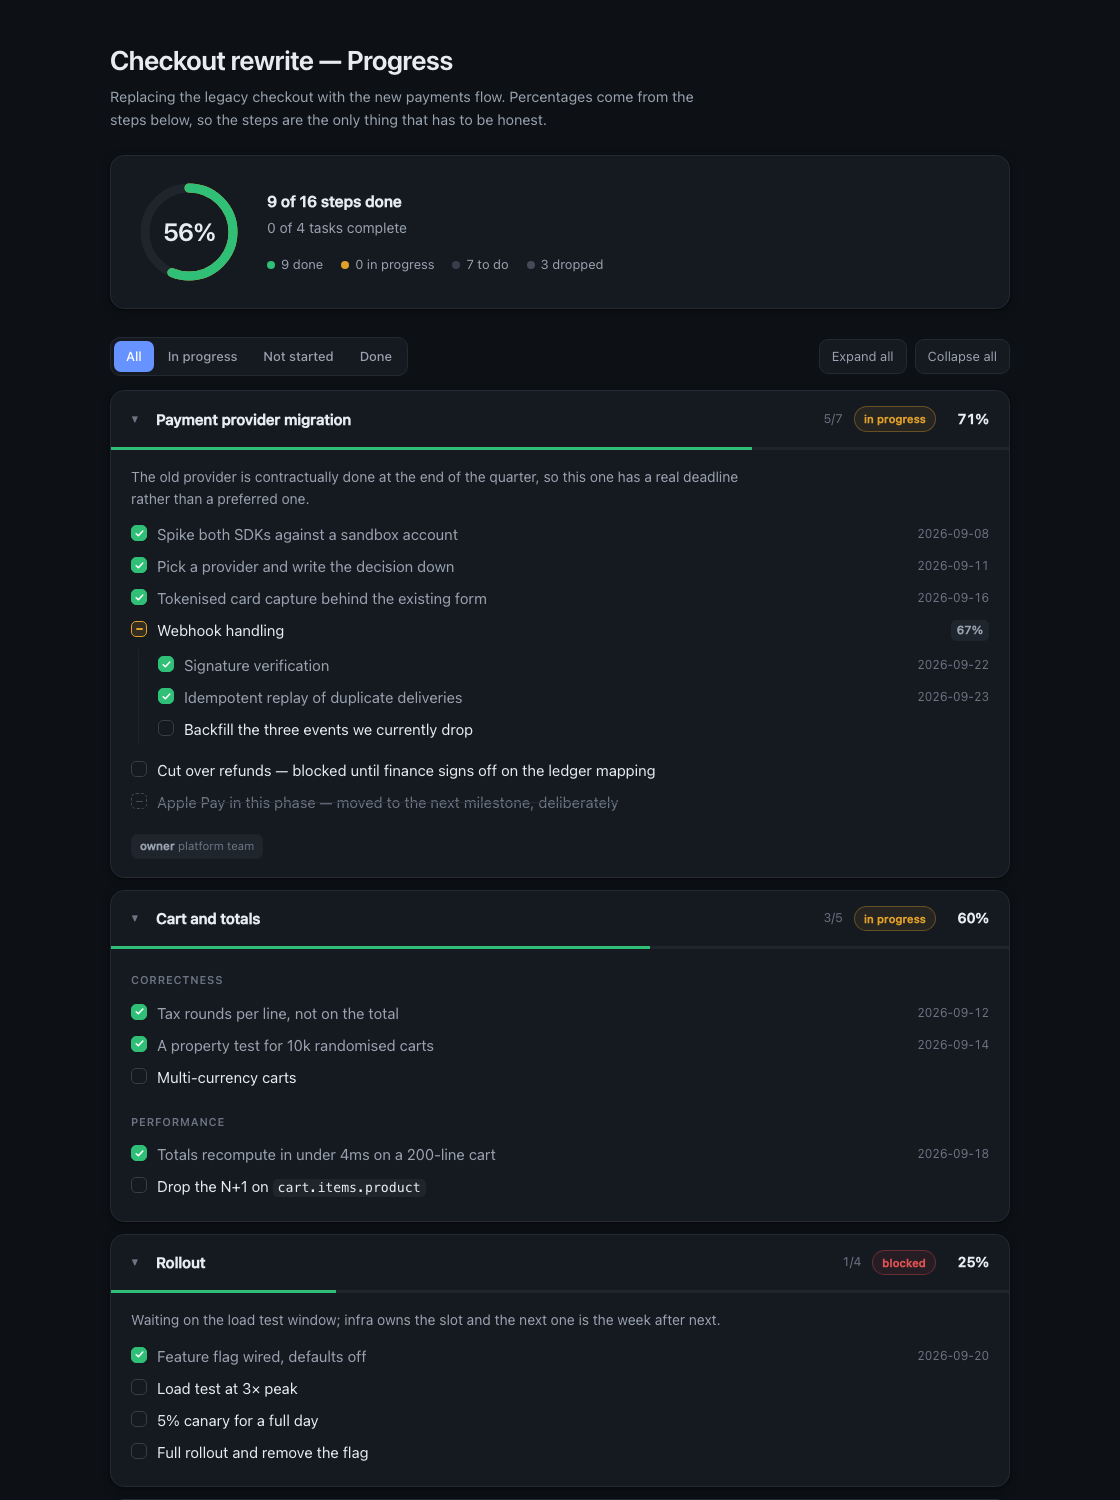
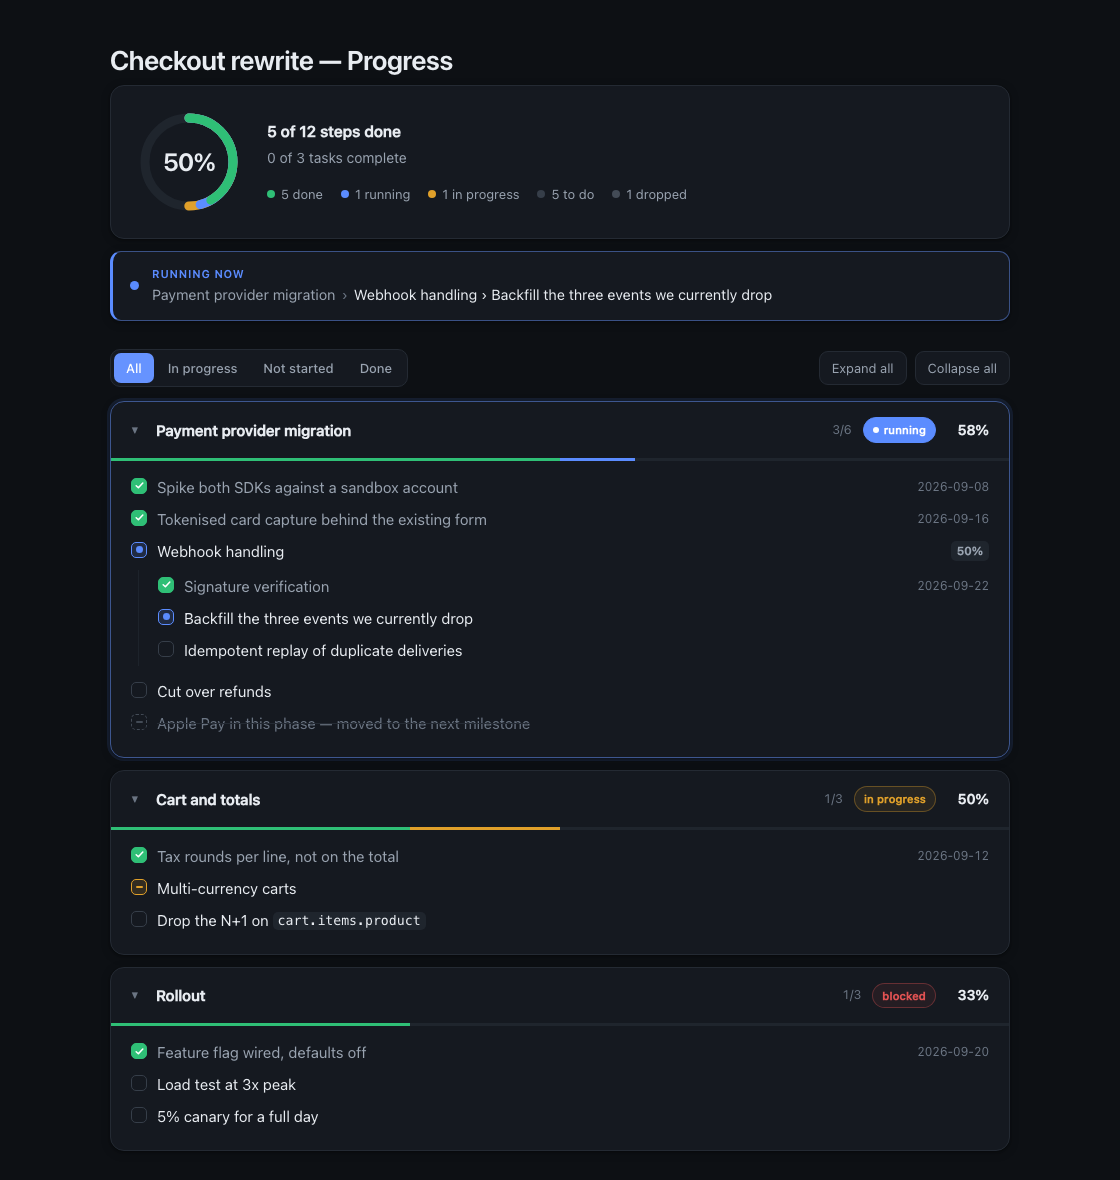
feat: a running marker, because "in progress" cannot say where the work is
With a board of any size every card reads "in progress" and the one being
worked on this moment is indistinguishable from the eleven that merely
started. `[>]` marks that step: its task reports `running`, the dashboard
leads with a "Running now" banner naming the path to the exact step, the card
is outlined, and the ring gets its own segment.

It counts the same half as `[~]`, so the arithmetic does not move -- this is
about saying where the work is, not scoring it. `[~]` keeps its old meaning of
underway but not being touched, and the skill is told to clear `[>]` the
moment it stops, since a stale one is a lie in the page's loudest place.

diff --git a/plugins/progress-board/skills/progress/assets/index.html b/plugins/progress-board/skills/progress/assets/index.html
@@ -17,6 +17,7 @@
     --accent: #3068f0;
     --done: #16a05c;
     --doing: #cf8408;
+    --running: #2f6df6;
     --todo: #ccd3db;
     --dropped: #b4bac2;
     --track: #e9edf2;
@@ -28,7 +29,7 @@
     :root:not([data-theme="light"]) {
       --bg: #0d1014; --panel: #151920; --line: #242a33; --line-soft: #1d232b;
       --ink: #e8ecf1; --dim: #99a3b0; --faint: #6b7583; --accent: #6693ff;
-      --done: #2fbf76; --doing: #e0a02a; --todo: #363e49; --dropped: #434b56;
+      --done: #2fbf76; --doing: #e0a02a; --running: #5b8cff; --todo: #363e49; --dropped: #434b56;
       --track: #1f252d;
       --shadow: 0 1px 2px rgba(0,0,0,.3), 0 2px 10px rgba(0,0,0,.22);
       --hover: rgba(255,255,255,.03);
@@ -37,7 +38,7 @@
   :root[data-theme="dark"] {
     --bg: #0d1014; --panel: #151920; --line: #242a33; --line-soft: #1d232b;
     --ink: #e8ecf1; --dim: #99a3b0; --faint: #6b7583; --accent: #6693ff;
-    --done: #2fbf76; --doing: #e0a02a; --todo: #363e49; --dropped: #434b56;
+    --done: #2fbf76; --doing: #e0a02a; --running: #5b8cff; --todo: #363e49; --dropped: #434b56;
     --track: #1f252d;
     --shadow: 0 1px 2px rgba(0,0,0,.3), 0 2px 10px rgba(0,0,0,.22);
     --hover: rgba(255,255,255,.03);
@@ -78,6 +79,7 @@
   .ring circle { fill: none; stroke-linecap: round; }
   .ring .track { stroke: var(--track); }
   .ring .arc-doing { stroke: var(--doing); transition: stroke-dashoffset .5s cubic-bezier(.2,.7,.3,1); }
+  .ring .arc-running { stroke: var(--running); transition: stroke-dashoffset .5s cubic-bezier(.2,.7,.3,1); }
   .ring .arc-done { stroke: var(--done); transition: stroke-dashoffset .5s cubic-bezier(.2,.7,.3,1); }
   .ring-label {
     position: absolute; inset: 0; display: grid; place-items: center;
@@ -134,6 +136,42 @@
   .pill.in-progress, .pill.doing { color: var(--doing); border-color: color-mix(in srgb, var(--doing) 35%, transparent); background: color-mix(in srgb, var(--doing) 9%, transparent); }
   .pill.blocked { color: #e05252; border-color: color-mix(in srgb, #e05252 35%, transparent); background: color-mix(in srgb, #e05252 8%, transparent); }
   .pill.deferred { color: var(--faint); border-style: dashed; }
+  .pill.running {
+    color: #fff; background: var(--running); border-color: var(--running);
+    display: inline-flex; align-items: center; gap: 5px;
+  }
+  .pill.running::before {
+    content: ""; width: 6px; height: 6px; border-radius: 99px;
+    background: #fff; animation: pulse 1.4s ease-in-out infinite;
+  }
+
+  /* The card being worked on right now gets an edge you can find while
+     scrolling, since every other card also says "in progress". */
+  .task[data-running="true"] {
+    border-color: color-mix(in srgb, var(--running) 45%, var(--line));
+    box-shadow: var(--shadow), 0 0 0 3px color-mix(in srgb, var(--running) 12%, transparent);
+  }
+
+  .runbanner {
+    display: flex; align-items: center; gap: 13px;
+    background: var(--panel);
+    border: 1px solid color-mix(in srgb, var(--running) 40%, var(--line));
+    border-left: 3px solid var(--running);
+    border-radius: 11px; box-shadow: var(--shadow);
+    padding: 13px 17px; margin-top: 12px;
+  }
+  .runbanner .beacon {
+    flex: none; width: 9px; height: 9px; border-radius: 99px;
+    background: var(--running); animation: pulse 1.4s ease-in-out infinite;
+  }
+  .runbanner .rb { min-width: 0; }
+  .rb-label {
+    font-size: 11px; text-transform: uppercase; letter-spacing: .07em;
+    color: var(--running); font-weight: 650;
+  }
+  .rb-line { font-size: 14.5px; margin-top: 1px; overflow-wrap: break-word; }
+  .rb-line .rb-task { color: var(--dim); }
+  .rb-line .rb-sep { color: var(--faint); margin: 0 6px; }
   .task-pct {
     font-variant-numeric: tabular-nums; font-weight: 560; font-size: 14px;
     width: 42px; text-align: right; white-space: nowrap;
@@ -142,6 +180,7 @@
   .task-bar > i { height: 100%; transition: width .45s cubic-bezier(.2,.7,.3,1); }
   .task-bar > i.done { background: var(--done); }
   .task-bar > i.doing { background: var(--doing); }
+  .task-bar > i.running { background: var(--running); }
 
   .task-body { padding: 2px 20px 18px; }
   .task[data-open="false"] .task-body, .task[data-open="false"] .task-bar { display: none; }
@@ -183,6 +222,11 @@
   .box.done { background: var(--done); border-color: var(--done); }
   .box.doing { border-color: var(--doing); background: color-mix(in srgb, var(--doing) 14%, transparent); }
   .box.doing i { width: 7px; height: 2px; border-radius: 2px; background: var(--doing); display: block; }
+  .box.running { border-color: var(--running); background: color-mix(in srgb, var(--running) 16%, transparent); }
+  .box.running i {
+    width: 7px; height: 7px; border-radius: 99px; background: var(--running);
+    display: block; animation: pulse 1.4s ease-in-out infinite;
+  }
   .box.dropped { border-color: var(--dropped); border-style: dashed; }
   .box.dropped i { width: 7px; height: 1.5px; border-radius: 2px; background: var(--dropped); display: block; }
   .item-text { min-width: 0; overflow-wrap: break-word; }
@@ -260,6 +304,7 @@
   function boxFor(state) {
     if (state === 'done') return '<span class="box done">' + CHECK + '</span>'
     if (state === 'doing') return '<span class="box doing"><i></i></span>'
+    if (state === 'running') return '<span class="box running"><i></i></span>'
     if (state === 'dropped') return '<span class="box dropped"><i></i></span>'
     return '<span class="box"></span>'
   }
@@ -291,16 +336,19 @@
     return true
   }
 
-  function ring(donePct, doingPct) {
+  function ring(donePct, runPct, doingPct) {
     var R = 44, C = 2 * Math.PI * R
-    var both = Math.min(100, donePct + doingPct)
+    var all = Math.min(100, donePct + runPct + doingPct)
+    var both = Math.min(100, donePct + runPct)
     return '<div class="ring"><svg width="104" height="104" viewBox="0 0 104 104">' +
       '<circle class="track" cx="52" cy="52" r="' + R + '" stroke-width="9"/>' +
       '<circle class="arc-doing" cx="52" cy="52" r="' + R + '" stroke-width="9" ' +
+        'stroke-dasharray="' + C + '" stroke-dashoffset="' + (C * (1 - all / 100)) + '"/>' +
+      '<circle class="arc-running" cx="52" cy="52" r="' + R + '" stroke-width="9" ' +
         'stroke-dasharray="' + C + '" stroke-dashoffset="' + (C * (1 - both / 100)) + '"/>' +
       '<circle class="arc-done" cx="52" cy="52" r="' + R + '" stroke-width="9" ' +
         'stroke-dasharray="' + C + '" stroke-dashoffset="' + (C * (1 - donePct / 100)) + '"/>' +
-      '</svg><div class="ring-label">' + Math.round(donePct + doingPct) + '%</div></div>'
+      '</svg><div class="ring-label">' + Math.round(all) + '%</div></div>'
   }
 
   function render(d) {
@@ -308,21 +356,38 @@
     document.title = d.title + ' — ' + d.pct + '%'
 
     var donePct = d.total ? (100 * d.totals.done) / d.total : 0
+    var runPct = d.total ? (100 * (d.totals.running || 0) * 0.5) / d.total : 0
     var doingPct = d.total ? (100 * d.totals.doing * 0.5) / d.total : 0
+    var running = d.running || []
 
     var h = '<header>'
     h += '<h1>' + esc(d.title) + '</h1>'
     if (d.subtitle) h += '<p class="subtitle">' + rich(d.subtitle) + '</p>'
 
-    h += '<div class="overall">' + ring(donePct, doingPct) + '<div class="overall-body">'
+    h += '<div class="overall">' + ring(donePct, runPct, doingPct) + '<div class="overall-body">'
     h += '<div class="overall-head">' + d.totals.done + ' of ' + d.total + ' steps done</div>'
     h += '<div class="overall-meta">' + d.tasksDone + ' of ' + d.taskCount + ' tasks complete</div>'
     h += '<div class="legend">'
     h += '<span><i class="dot" style="background:var(--done)"></i>' + d.totals.done + ' done</span>'
+    if (running.length) h += '<span><i class="dot" style="background:var(--running)"></i>' + running.length + ' running</span>'
     h += '<span><i class="dot" style="background:var(--doing)"></i>' + d.totals.doing + ' in progress</span>'
     h += '<span><i class="dot" style="background:var(--todo)"></i>' + d.totals.todo + ' to do</span>'
     if (d.totals.dropped) h += '<span><i class="dot" style="background:var(--dropped)"></i>' + d.totals.dropped + ' dropped</span>'
-    h += '</div></div></div></header>'
+    h += '</div></div></div>'
+
+    // Everything else on this page says "in progress". This says what is
+    // happening at this moment, and it is the first thing you should see.
+    if (running.length) {
+      h += '<div class="runbanner"><span class="beacon"></span><div class="rb">'
+      h += '<div class="rb-label">Running now</div>'
+      for (var r = 0; r < running.length; r++) {
+        var trail = (running[r].trail || []).concat([running[r].step])
+        h += '<div class="rb-line"><span class="rb-task">' + rich(running[r].task) + '</span>'
+        h += '<span class="rb-sep">\u203a</span>' + rich(trail.join(' \u203a ')) + '</div>'
+      }
+      h += '</div></div>'
+    }
+    h += '</header>'
 
     h += '<div class="controls"><div class="seg" id="seg">'
     var opts = [['all', 'All'], ['active', 'In progress'], ['todo', 'Not started'], ['done', 'Done']]
@@ -339,11 +404,14 @@
       if (!visible(t)) continue
       shown++
       var key = 'task' + i
-      var open = openState[key] !== undefined ? openState[key] : t.status !== 'done'
+      var open = t.status === 'running' ? true
+        : openState[key] !== undefined ? openState[key] : t.status !== 'done'
       var tDone = t.total ? (100 * t.done) / t.total : 0
+      var tRun = t.total ? (100 * (t.running || 0) * 0.5) / t.total : 0
       var tDoing = t.total ? (100 * t.doing * 0.5) / t.total : 0
 
-      h += '<section class="task" data-open="' + open + '" data-key="' + key + '">'
+      h += '<section class="task" data-open="' + open + '" data-key="' + key + '"'
+      h += ' data-running="' + (t.status === 'running') + '">'
       h += '<div class="task-head"><span class="chev">▼</span>'
       h += '<span class="task-name">' + rich(t.name) + '</span>'
       h += '<span class="task-count">' + t.done + '/' + t.total + '</span>'
@@ -351,6 +419,7 @@
       h += '<span class="pill ' + t.status.replace(/\s+/g, '-') + '">' + esc(t.status) + '</span>'
       h += '<span class="task-pct">' + t.pct + '%</span></span></div>'
       h += '<div class="task-bar"><i class="done" style="width:' + tDone + '%"></i>'
+      h += '<i class="running" style="width:' + tRun + '%"></i>'
       h += '<i class="doing" style="width:' + tDoing + '%"></i></div>'
 
       h += '<div class="task-body">'

diff --git a/plugins/progress-board/skills/progress/SKILL.md b/plugins/progress-board/skills/progress/SKILL.md
@@ -68,7 +68,8 @@ owner: whoever
 Optional paragraph shown under the task.
 
 - [x] A finished step @2026-01-15
-- [~] A step in flight (counts half)
+- [>] The step being worked on RIGHT NOW (counts half)
+- [~] A step in flight but not being worked this moment (counts half)
 - [ ] A step not started
 - [-] A dropped step (leaves the denominator)
   - [x] Indented steps are the ones that count; parents derive their state
@@ -80,6 +81,9 @@ Optional paragraph shown under the task.
   like `blocked` or `deferred`. Let `done`, `in progress` and `not started`
   compute themselves.
 - `@YYYY-MM-DD` at the end of a step is the day it finished.
+- `[>]` is the live marker. Its task reports `running`, it shows in the
+  dashboard's "Running now" banner, and its card is highlighted — which is the
+  whole point, since every other card also says "in progress".
 - Only leaf steps count. A parent with children completes when they all do.
 - Task % = weighted steps / countable steps. Overall % = the same sum across
   every task, so a big task moves the number more than a small one.
@@ -122,9 +126,16 @@ file:// case correct too, so just always run it.
 
 Other rules that keep the board trustworthy:
 
-- Mark a step `[~]` when you start it, `[x]` when it is actually finished —
-  tests passing, not "written". A board that reports work that does not run is
-  worse than no board.
+- **Mark a step `[>]` when you START it and clear it the moment you stop** —
+  to `[x]` when it is finished, or back to `[~]` if you are setting it down
+  unfinished. `[>]` means *a step is being worked on at this moment*, so a
+  stale one is a lie the dashboard tells in its most prominent place. Keep at
+  most one `[>]` on the board.
+- `[~]` is for a step that is genuinely underway but not being touched right
+  now. The difference matters: without it, every task reads "in progress" and
+  the board cannot say where the work actually is.
+- Mark `[x]` only when the work actually runs — tests passing, not "written".
+  A board that reports work that does not run is worse than no board.
 - New work that appears mid-task gets appended as new unchecked steps, even
   though it drops the percentage. Never delete a step to make a number look
   better; mark it `[-]` if it was genuinely cut, and say so.

diff --git a/README.md b/README.md
@@ -76,7 +76,8 @@ owner: platform team
 An optional paragraph about this task.
 
 - [x] A finished step @2026-09-16
-- [~] A step in flight — counts half
+- [>] The step being worked on right now — counts half
+- [~] Underway, but not being touched this moment — counts half
 - [ ] A step not started
 - [-] A step that was cut — leaves the denominator entirely
 - [ ] A step with children
@@ -98,9 +99,15 @@ status: blocked
 
 ### How the numbers work
 
-Task percentage is weighted steps over countable steps: `[x]` counts 1, `[~]`
-counts a half, `[ ]` counts 0, and `[-]` leaves the denominator, so cutting
-scope does not quietly depress the number forever.
+Task percentage is weighted steps over countable steps: `[x]` counts 1, `[>]`
+and `[~]` count a half, `[ ]` counts 0, and `[-]` leaves the denominator, so
+cutting scope does not quietly depress the number forever.
+
+`[>]` is the live marker, and it is what separates *in progress* from *being
+worked on this moment*. Its task reports `running`, the dashboard shows it in a
+"Running now" banner with the path to the exact step, and its card is
+highlighted — useful precisely because every other card also says "in
+progress".
 
 Only leaf steps count. A parent with children takes its state from them, so a
 task cannot be reported complete by ticking a headline.

diff --git a/plugins/progress-board/skills/progress/assets/PROGRESS.template.md b/plugins/progress-board/skills/progress/assets/PROGRESS.template.md
@@ -11,7 +11,8 @@ owner: me
 A paragraph of context is optional. It shows under the task on the dashboard.
 
 - [x] A step that is finished @2026-01-15
-- [~] A step being worked on right now
+- [>] The step being worked on right now — shows in the "Running now" banner
+- [~] A step underway, but not being touched this moment
 - [ ] A step not started
 - [-] A step that was dropped — it leaves the denominator entirely
 
